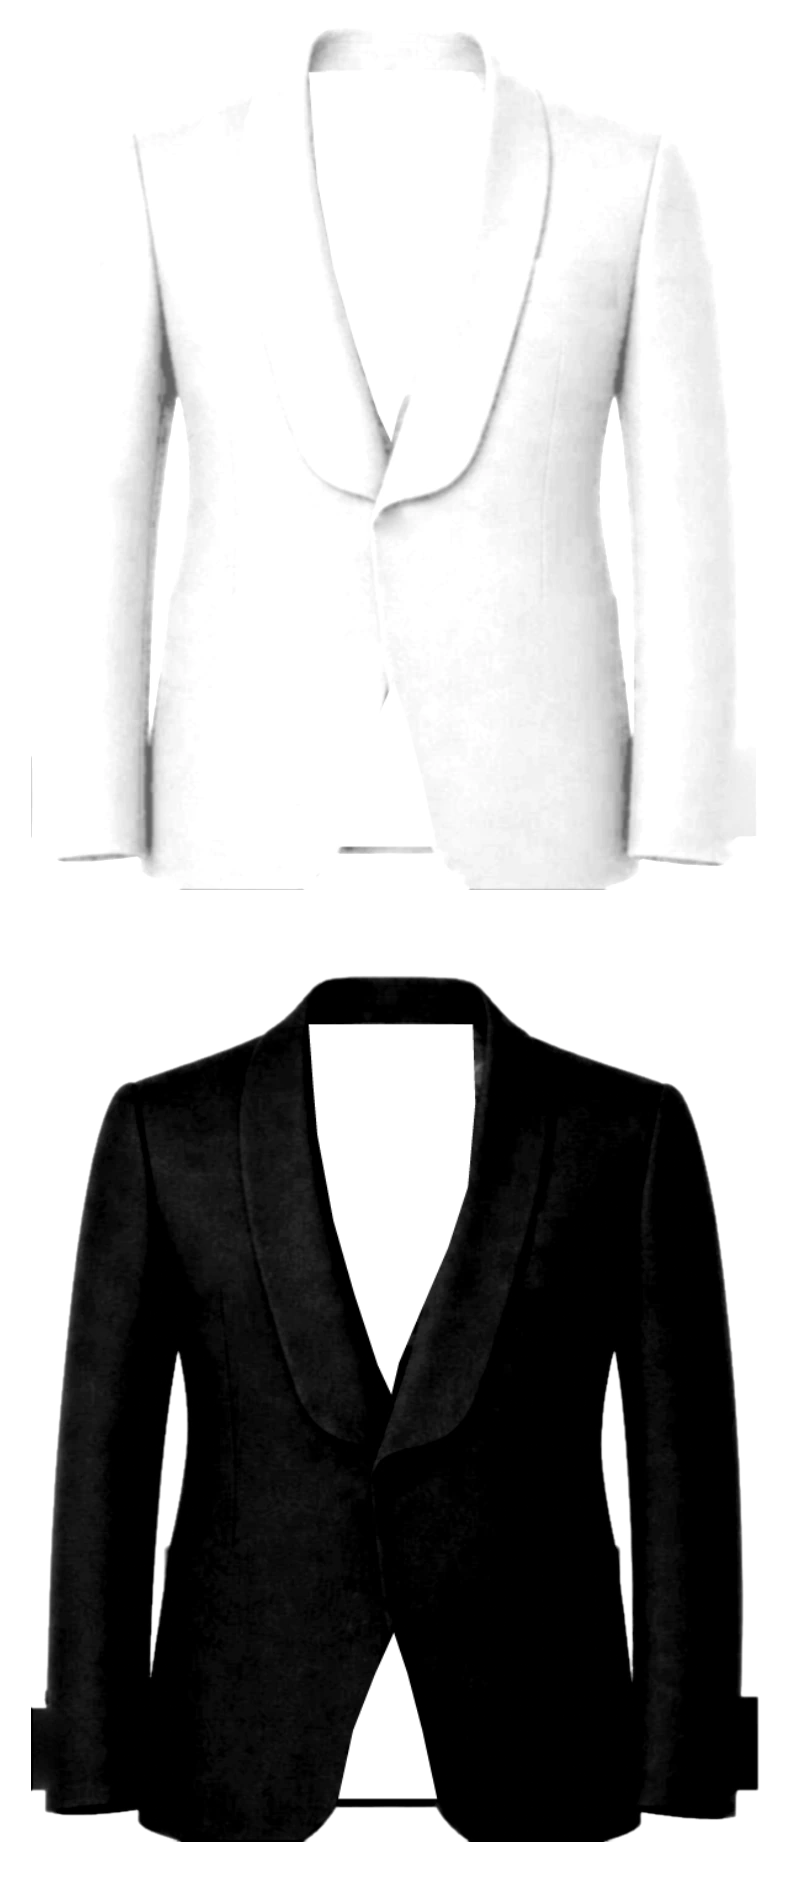
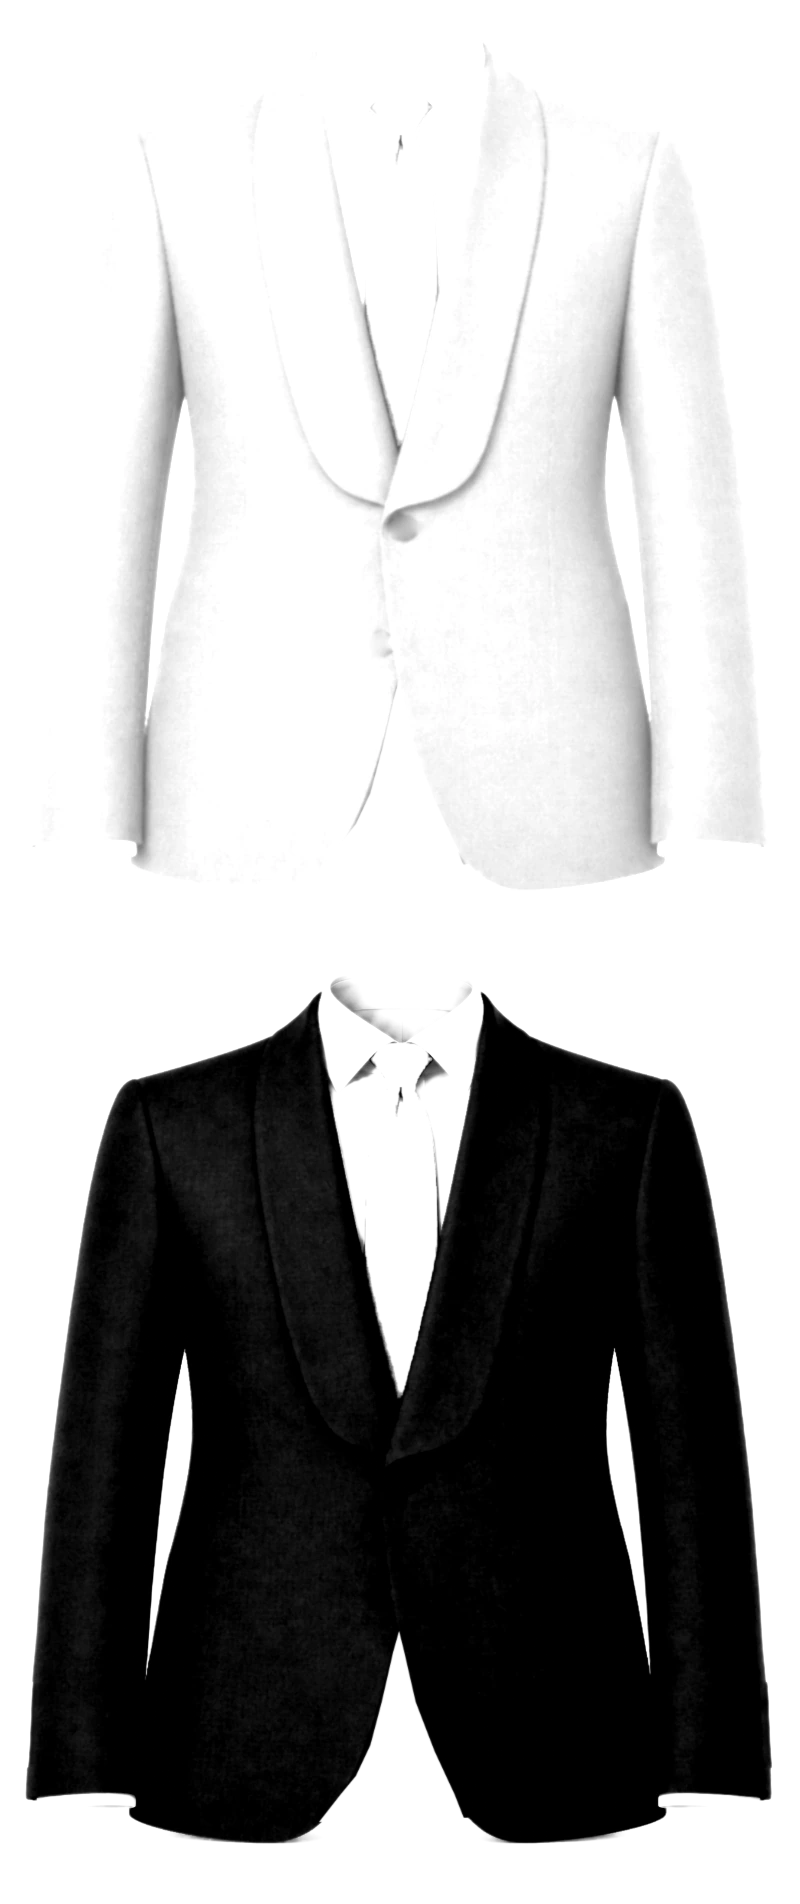
Arc picture: rebuilt from Daniel's new Arc reference photo (#686)
* Arc picture: chest pocket back in place, tucked under the lapel; lapel covers the grey facing strip

Claude-Session: https://claude.ai/code/session_01Y2WUq1weRP5XrU8gepbqNJ

* Arc picture: rebuilt from Daniel's new Arc reference (shirt, tie, cuffs, lining)

Claude-Session: https://claude.ai/code/session_01Y2WUq1weRP5XrU8gepbqNJ

* Keep the Arc lapel icon; new reference photo gets its own file

Claude-Session: https://claude.ai/code/session_01Y2WUq1weRP5XrU8gepbqNJ

---------

diff --git a/jacket-studio.js b/jacket-studio.js
@@ -55,8 +55,8 @@
   };
   // Double breasted fronts use their own photo (peak lapels, the front
   // crossing over; scripts/make_jacket_photo_db.py).
-  const PHOTO_ARC = "./assets/jacket-photo-front-arc.webp?v=2";
-  const SHADE_ARC = "./assets/jacket-photo-shade-front-arc-photo.webp?v=3";
+  const PHOTO_ARC = "./assets/jacket-photo-front-arc.webp?v=3";
+  const SHADE_ARC = "./assets/jacket-photo-shade-front-arc-photo.webp?v=4";
   const PHOTO_DB = "./assets/jacket-photo-front-db.webp?v=1";
   const SHADE_DB = "./assets/jacket-photo-shade-front-db.webp?v=1";
   const SHADE_DB_LAPEL = {
@@ -670,7 +670,7 @@
     const arcFront = !db && v.collar === "Arc Lapel";
     if (arcFront) {
       g.save();
-      const clip = new Path2D("M0,0 H" + VBW + " V" + VBH + " H0 Z M548,120 L550,182 L544,235 L532,287 L511,340 L440,340 L440,120 Z");
+      const clip = new Path2D("M0,0 H" + VBW + " V" + VBH + " H0 Z M546,120 L546,160 L541,200 L537,235 L531,265 L525,295 L518,325 L512,355 L505,385 L440,385 L440,120 Z");
       g.clip(clip, "evenodd");
     }
     if (ck === "patch") patch(g, layer, CX, 268, CW, 92, -2, "roundpatch", 1);

diff --git a/index.html b/index.html
@@ -1360,7 +1360,7 @@
 <!-- Your Jacket peek: a small read-only picture of the jacket beside the
      Jacket questions; tap to see it big (Daniel, 2026-11-19). The old
      clickable "Interactive Jacket" mode is no longer offered. -->
-<script src="./jacket-studio.js?v=20261120arcfix2"></script>
+<script src="./jacket-studio.js?v=20261120arcv2"></script>
 
 </body>
 </html>

diff --git a/scripts/make_jacket_photo_arc.py b/scripts/make_jacket_photo_arc.py
@@ -1,18 +1,21 @@
 """Arc lapel front for the Your Jacket picture (jacket-studio.js).
 
-Daniel (2026-11-19): the Arc must look exactly like the approved Arc photo the
-suit picture generator uses (assets/jacket-lapelref-arc-approved.jpg, a grey
-jacket). Drawing the Arc edge as a line on the notch photo never looked right,
-so the single breasted Arc front is built from that photo itself:
+Daniel (2026-11-20) sent a new Arc reference (assets/jacket-arc-reference-photo.jpg:
+grey two button Arc jacket with white shirt, burgundy tie, shirt cuffs and the
+damask lining showing below the buttons). The single breasted Arc front is
+built from that photo itself (drawing the Arc edge as lines never looked
+right):
 
-- the grey jacket (left 600 px of the reference) is warped onto the main
-  photo's layout (800x952 crop: shoulders, collar, top button and sleeve ends
-  line up with jacket-photo-front.webp, so the drawn pockets, buttons and cuffs
-  land in the same places),
-- its own buttons and sleeve buttons are painted out (the page draws them),
+- the photo is warped onto the main photo's layout (800x952: one linear map
+  in y through shoulders / top button / sleeve ends, and per row an x scale
+  that matches the silhouette width, so the drawn pockets, buttons and cuffs
+  land where they do on jacket-photo-front.webp),
+- its own buttons, buttonhole and sleeve buttons are painted out (the page
+  draws them),
 - its luminance becomes the cloth shading (same encoding as
   jacket-photo-shade-front*.webp), and
-- the lining showing in the opening and the backdrop stay in the base photo.
+- the shirt, tie, shirt cuffs and lining stay in the base photo; the backdrop
+  becomes the page glow.
 
 Writes assets/jacket-photo-front-arc.webp and
 assets/jacket-photo-shade-front-arc-photo.webp.
@@ -23,10 +26,11 @@ import os
 
 HERE = os.path.dirname(os.path.abspath(__file__))
 ROOT = os.path.dirname(HERE)
-src = Image.open(os.path.join(ROOT, 'assets', 'jacket-lapelref-arc-approved.jpg')).convert('RGB').crop((0, 0, 600, 800))
+src = Image.open(os.path.join(ROOT, 'assets', 'jacket-arc-reference-photo.jpg')).convert('RGB')
 g = np.asarray(src).astype(np.float32)
 GH, GW = g.shape[:2]
 GL = g.mean(2)
+BACKDROP = np.array([247, 239, 231], np.float32)
 
 
 def mask(polys=(), circles=(), rects=(), W=GW, H=GH, ss=4):
@@ -39,10 +43,14 @@ def mask(polys=(), circles=(), rects=(), W=GW, H=GH, ss=4):
 
 
 # ---- paint out the photo's buttons, buttonhole and sleeve buttons ----------
-holes = mask(circles=[(295, 477, 15), (275, 590, 15)],
-             rects=[(306, 469, 327, 483), (563, 670, 590, 752), (0, 680, 24, 752)]) > 0.01
-# Keep the white backdrop out of the fill so the sleeve edges stay cloth.
-cloth_known = (GL < 200) & ~holes
+# Sleeve buttons stick out past the sleeve edge (x 50 left, 1030 right): the
+# part outside becomes backdrop, the part on the sleeve becomes cloth.
+g[1168:1306, 30:50] = BACKDROP
+g[1168:1306, 1031:1050] = BACKDROP
+GL = g.mean(2)
+holes = mask(circles=[(544, 841, 21), (510, 1030, 21)],
+             rects=[(558, 831, 593, 849), (49, 1168, 56, 1306), (1023, 1168, 1031, 1306)]) > 0.01
+cloth_known = (GL < 170) & ~holes
 v = g.copy()
 v[holes] = g[cloth_known].mean(0)
 w = (cloth_known | holes).astype(np.float32)
@@ -54,30 +62,49 @@ for _ in range(1500):
     nv = s / np.maximum(sw, 1e-6)[..., None]
     v[holes] = nv[holes]
 g2 = np.where(holes[..., None], v, g)
-# a touch of the cloth's grain back on the filled spots
 rng = np.random.default_rng(3)
 g2[holes] += rng.normal(0, 2.0, (holes.sum(), 1))
 GL2 = g2.mean(2)
+R, G, B = g2[..., 0], g2[..., 1], g2[..., 2]
 
-# ---- masks: backdrop, lining in the opening, cloth ----------------------
-# The right edge sits on the damask, not on the plain grey facing strip beside
-# it, so the right lapel's cloth covers that strip (Daniel 2026-11-19).
-OPEN_TOP = [(226, 52), (359, 52), (361, 120), (355, 200), (339, 258), (317, 318), (299, 368), (293, 398),
-            (282, 370), (263, 302), (246, 232), (233, 150)]
-OPEN_BOT = [(295, 614), (306, 650), (318, 700), (330, 760), (250, 760), (262, 700), (280, 650)]
-opening = mask(polys=[OPEN_TOP, OPEN_BOT])
-bg = np.clip((GL2 - 222) / 14, 0, 1)
-bg = np.asarray(Image.fromarray((bg * 255).astype(np.uint8)).filter(ImageFilter.GaussianBlur(0.7))).astype(np.float32) / 255
-cloth = np.clip((1 - bg) * (1 - opening), 0, 1)
-jacket = np.clip(1 - bg, 0, 1)  # cloth + lining
+# ---- masks: backdrop (warm cream), shirt (neutral white), tie (red), lining --
+bd = np.clip((R - B - 6) / 6, 0, 1) * np.clip((GL2 - 190) / 20, 0, 1)
+white = np.clip((GL2 - 145) / 35, 0, 1)
+tie = np.clip((R - (G + B) / 2 - 12) / 12, 0, 1)
+# grow the tie a pixel so its dark rim doesn't turn into a cloth halo
+tie = np.asarray(Image.fromarray((tie * 255).astype(np.uint8)).filter(ImageFilter.MaxFilter(3))).astype(np.float32) / 255
+LINING = [(539, 1086), (546, 1120), (561, 1200), (586, 1280), (612, 1350), (626, 1394),
+          (434, 1394), (462, 1350), (482, 1320), (501, 1270), (516, 1200), (531, 1120)]
+lining = mask(polys=[LINING])
+cloth = np.clip((1 - bd) * (1 - white) * (1 - tie) * (1 - lining), 0, 1)
+cloth = np.asarray(Image.fromarray((cloth * 255).astype(np.uint8)).filter(ImageFilter.GaussianBlur(0.6))).astype(np.float32) / 255
+jacket = np.clip(1 - bd, 0, 1)  # cloth + shirt + tie + lining
 
 # ---- warp onto the main photo's layout (800x952) -------------------------
 W, H = 800, 952
-# x: shoulders (85 -> 135, 515 -> 665); y: collar 25 -> 40, shoulders 100 -> 130,
-# top button 477 -> 525, sleeve ends 770 -> 858, hem 795 -> 885.
 yy, xx = np.mgrid[0:H, 0:W].astype(np.float32)
-gx = 85 + (xx - 135) * 430.0 / 530.0
-gy = np.interp(yy, [0, 40, 130, 525, 858, 885, 952], [0 - 40 * 25 / 40 + 25, 25, 100, 477, 770, 795, 795 + 67 * 0.92])
+# y: main shoulders 140 / top button 525 / sleeve ends 852 <-> ref 215 / 838 / 1365.
+gy = 215 + (yy - 140) * 1.616
+
+
+def widths(Lum, thr, rows):
+    out = []
+    for y in rows:
+        xs = np.where(Lum[int(y)] < thr)[0]
+        out.append(xs.max() - xs.min() if len(xs) else 0)
+    return np.array(out, np.float32)
+
+
+main = np.asarray(Image.open(os.path.join(ROOT, 'assets', 'jacket-photo-front.webp')).convert('L')).astype(np.float32)
+rows = np.arange(140, 841, 4, dtype=np.float32)
+wm = widths(main, 190, rows)
+wr = widths(GL, 200, np.clip(215 + (rows - 140) * 1.616, 0, GH - 1))
+scale = wr / np.maximum(wm, 1)
+scale = np.convolve(np.pad(scale, 6, mode='edge'), np.ones(13) / 13, mode='valid')
+sy = np.interp(yy[:, 0], rows, scale)[:, None]  # clamps above / below
+CM, CR = 398.5, 538.5
+gx = CR + (xx - CM) * sy
+print('x scale shoulders %.3f sleeves %.3f' % (scale[0], scale[-1]))
 
 
 def sample(arr):
@@ -101,18 +128,16 @@ Lu = Image.fromarray(np.clip(Lw, 0, 255).astype(np.uint8))
 Ls = np.asarray(Lu.filter(ImageFilter.MedianFilter(3)).filter(ImageFilter.GaussianBlur(0.6))).astype(np.float32)
 Lref = float(np.median(Ls[cl > 0.9]))
 r = (np.maximum(Ls, 1) / Lref) ** GAMMA
-# The photo's lapel edge is a thin near-black line; on the customer's cloth it
-# read as a hard drawn outline (Daniel 2026-11-19). Soften it: blur the
-# shading a touch and pull the darkest values back toward the cloth.
-r = np.asarray(Image.fromarray(np.clip(r * 100, 0, 255).astype(np.uint8)).filter(ImageFilter.GaussianBlur(1.1))).astype(np.float32) / 100
-r = np.where(r < 1, 1 - (1 - r) * 0.62, r)
+# Keep the lapel edges soft so they read as cloth, not a drawn outline.
+r = np.asarray(Image.fromarray(np.clip(r * 100, 0, 255).astype(np.uint8)).filter(ImageFilter.GaussianBlur(0.9))).astype(np.float32) / 100
+r = np.where(r < 1, 1 - (1 - r) * 0.7, r)
 A = np.clip(cl, 0, 1) * 255
 M1 = np.clip(r, 0, 1) * 255; M2 = np.clip(r - 1, 0, 1) * 255
 top = np.dstack([M1, M1, M1, A]); bot = np.dstack([M2, M2, M2, A])
 Image.fromarray(np.concatenate([top, bot], 0).astype(np.uint8), 'RGBA').save(
     os.path.join(ROOT, 'assets', 'jacket-photo-shade-front-arc-photo.webp'), quality=92, method=6)
 
-# ---- base photo: the page glow backdrop, the jacket (its lining shows) ----
+# ---- base photo: the page glow backdrop, then the jacket with shirt/tie/lining
 PAGE = np.array([236, 228, 221], np.float32)
 GLOW = np.array([245, 240, 233], np.float32)
 rr = np.sqrt(((xx - 400) / 430.0) ** 2 + ((yy - 430) / 520.0) ** 2)
